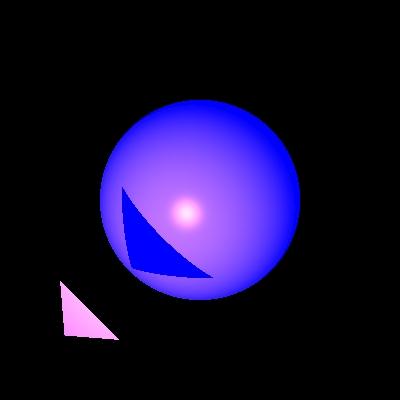
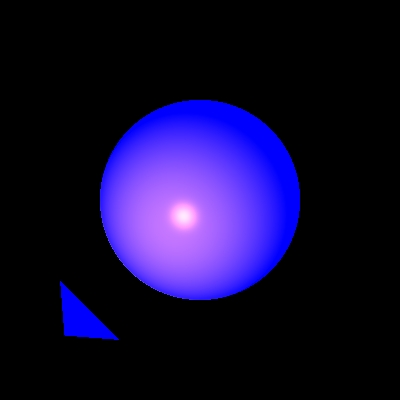
shadow work good 21/05/2020 23:30

diff --git a/UnitTests/UnitTests/ShadowTests.java b/UnitTests/UnitTests/ShadowTests.java
@@ -60,7 +60,7 @@ public class ShadowTests {
                         new Point3D(-70, 40, 0), new Point3D(-40, 70, 0), new Point3D(-68, 68, 4)));
 
         scene.addLights(new SpotLight(new Color(400, 240, 0), //
-                new Point3D(-100, 100, -200), new Vector(1, -1, 3), 1, 1E-5, 1.5E-7));
+                new Point3D(-55, 55, 6), new Vector(1, -1, 3), 1, 1E-5, 1.5E-7));
 
         ImageWriter imageWriter = new ImageWriter("sphereTriangleMove1", 200, 200, 400, 400);
         Render render = new Render(imageWriter, scene);

diff --git a/src/geometries/Triangle.java b/src/geometries/Triangle.java
@@ -92,9 +92,9 @@ public class Triangle extends Polygon {
      * @return alist of intersect points
      */
     @Override
-    public List<GeoPoint> findIntersections(Ray ray)
+    public List<GeoPoint> findIntersections(Ray ray, double max)
     {
-        List<GeoPoint> intersections = _plane.findIntersections(ray);
+        List<GeoPoint> intersections = _plane.findIntersections(ray, max);
         if (intersections == null) return null;
 
         Point3D p0 = ray.get_start();

diff --git a/src/geometries/Polygon.java b/src/geometries/Polygon.java
@@ -114,7 +114,7 @@ public class Polygon extends Geometry {
      */
     @Override
     public List<GeoPoint> findIntersections(Ray ray, double max) {
-        List<GeoPoint> intersections = _plane.findIntersections(ray);
+        List<GeoPoint> intersections = _plane.findIntersections(ray,max);
         if (intersections == null)
             return null;
 

diff --git a/src/renderer/Render.java b/src/renderer/Render.java
@@ -180,6 +180,6 @@ public class Render {
         Ray lightRay = new Ray(point, lightDirection);
 
         List<GeoPoint> intersections = _scene.getGeometries().findIntersections(lightRay,light.getDistance(gp._point));
-        return intersections == null;
+        return intersections == null /*|| intersections.isEmpty()*/;
     }
 }
